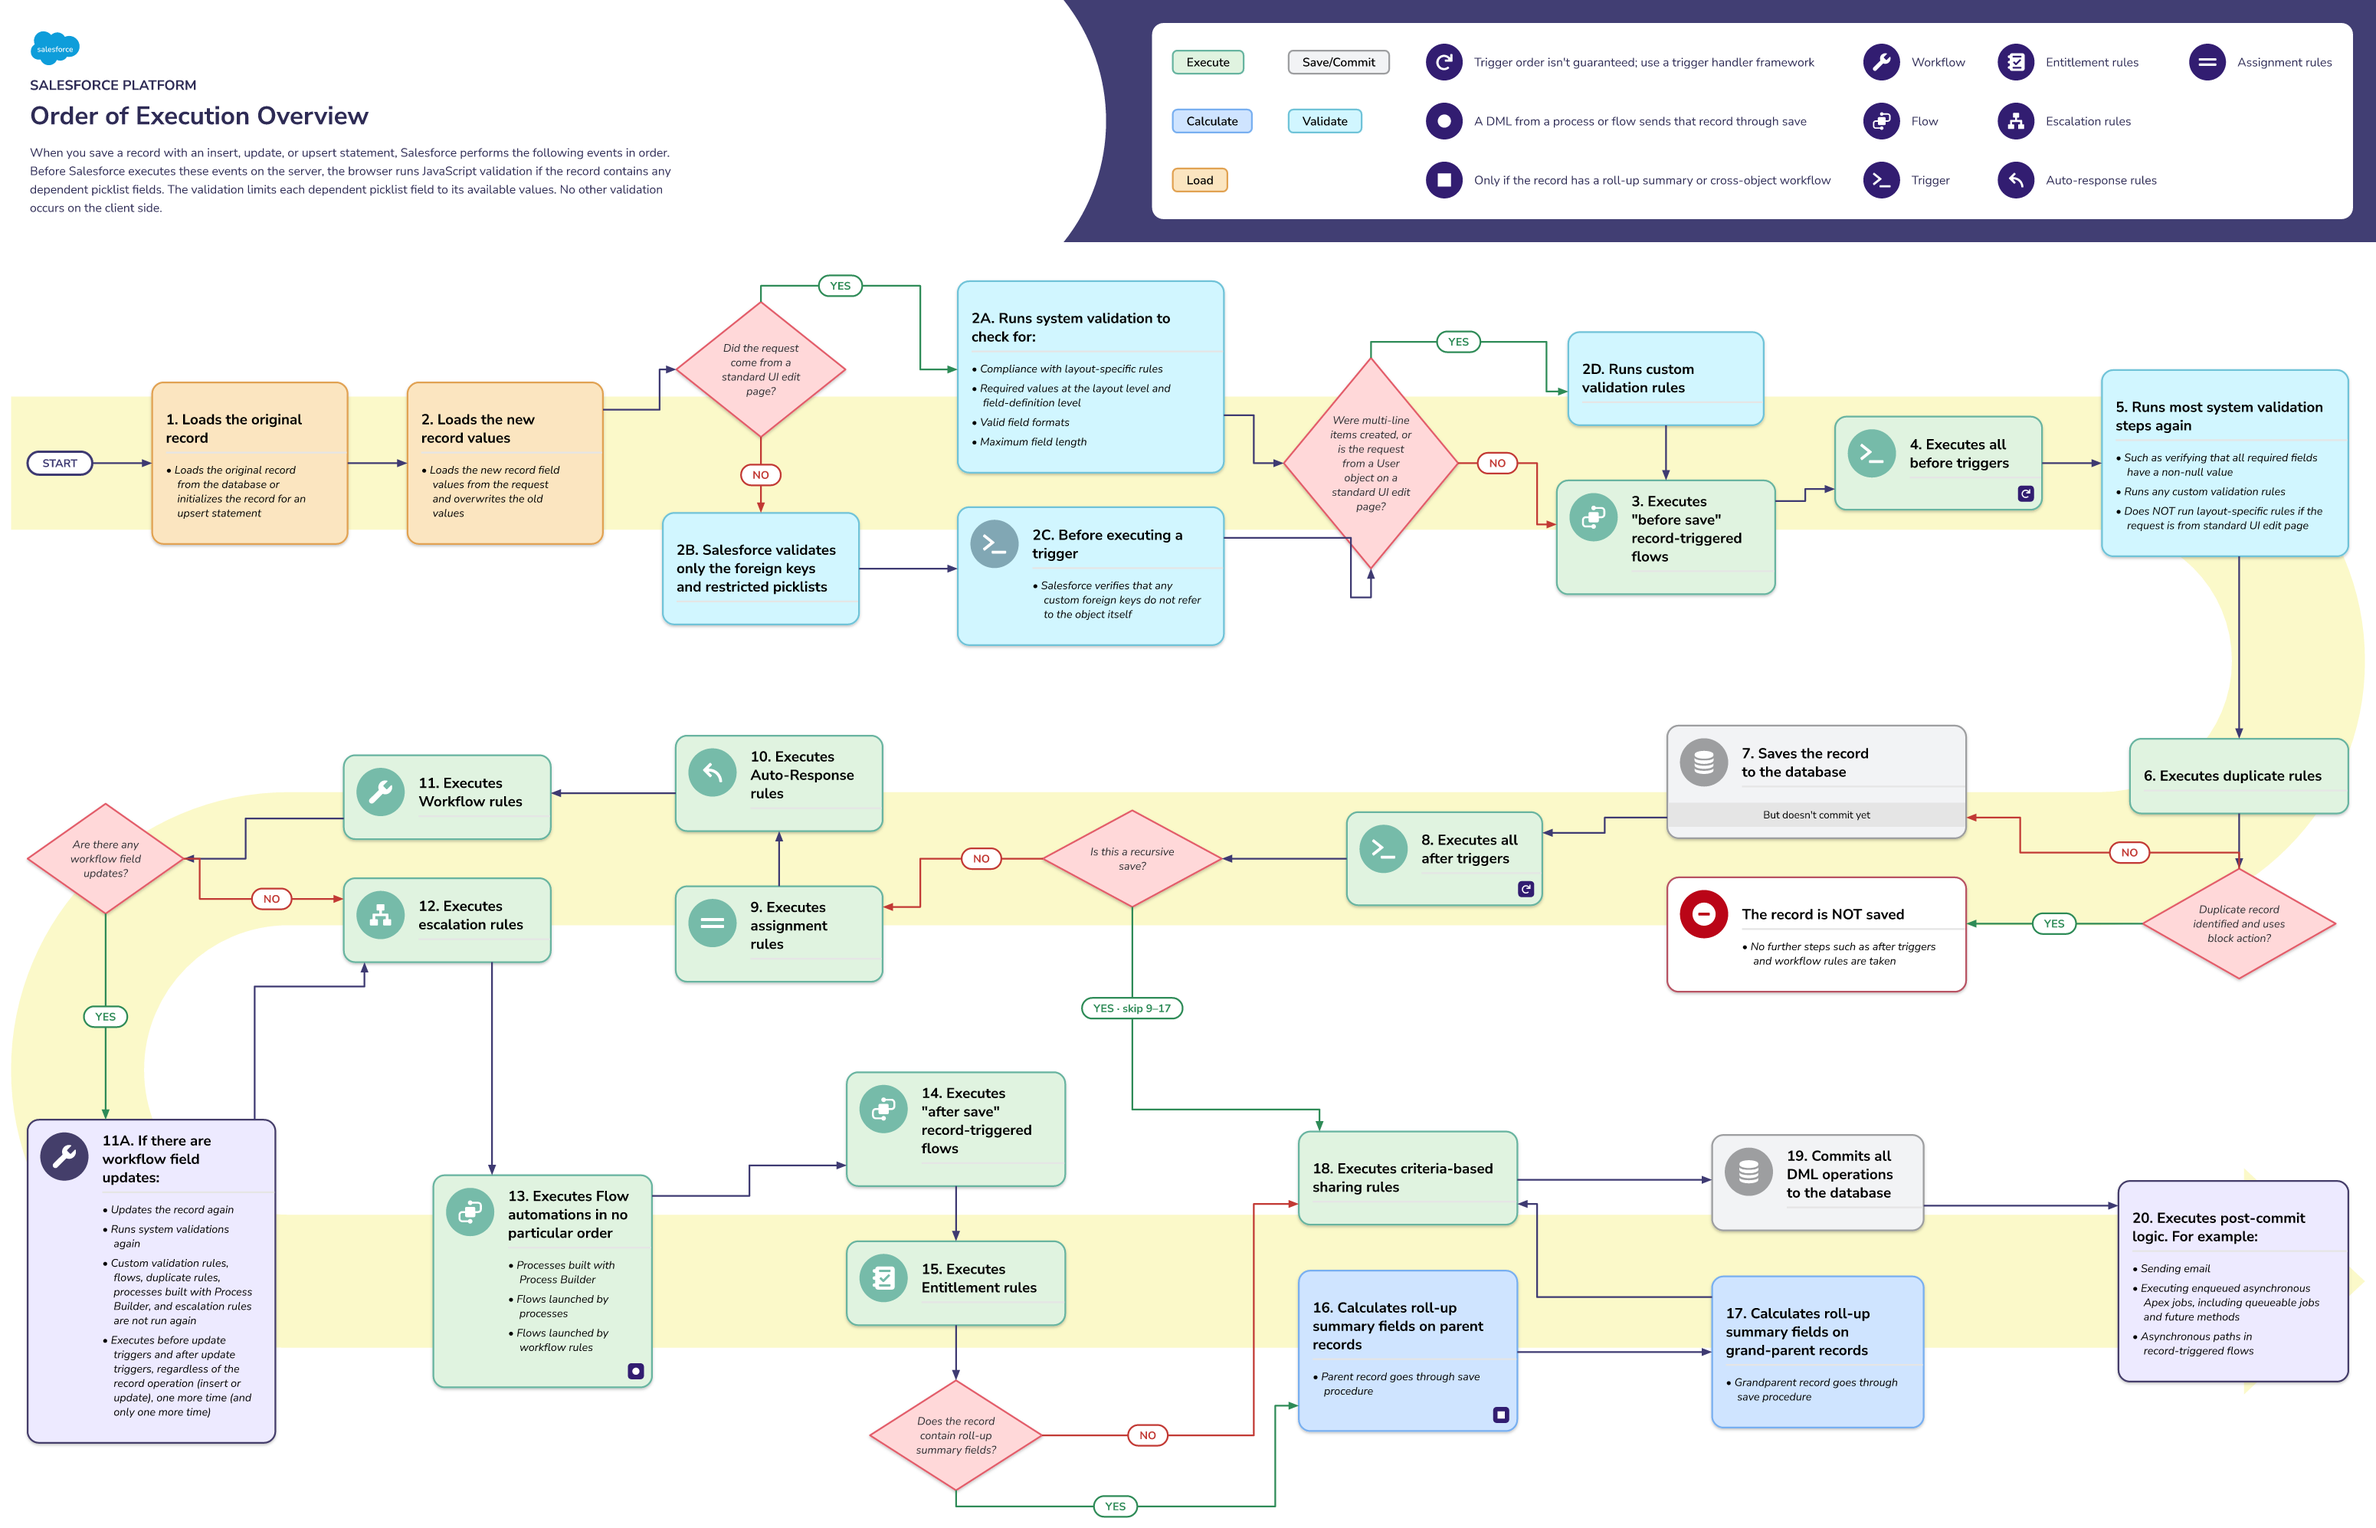
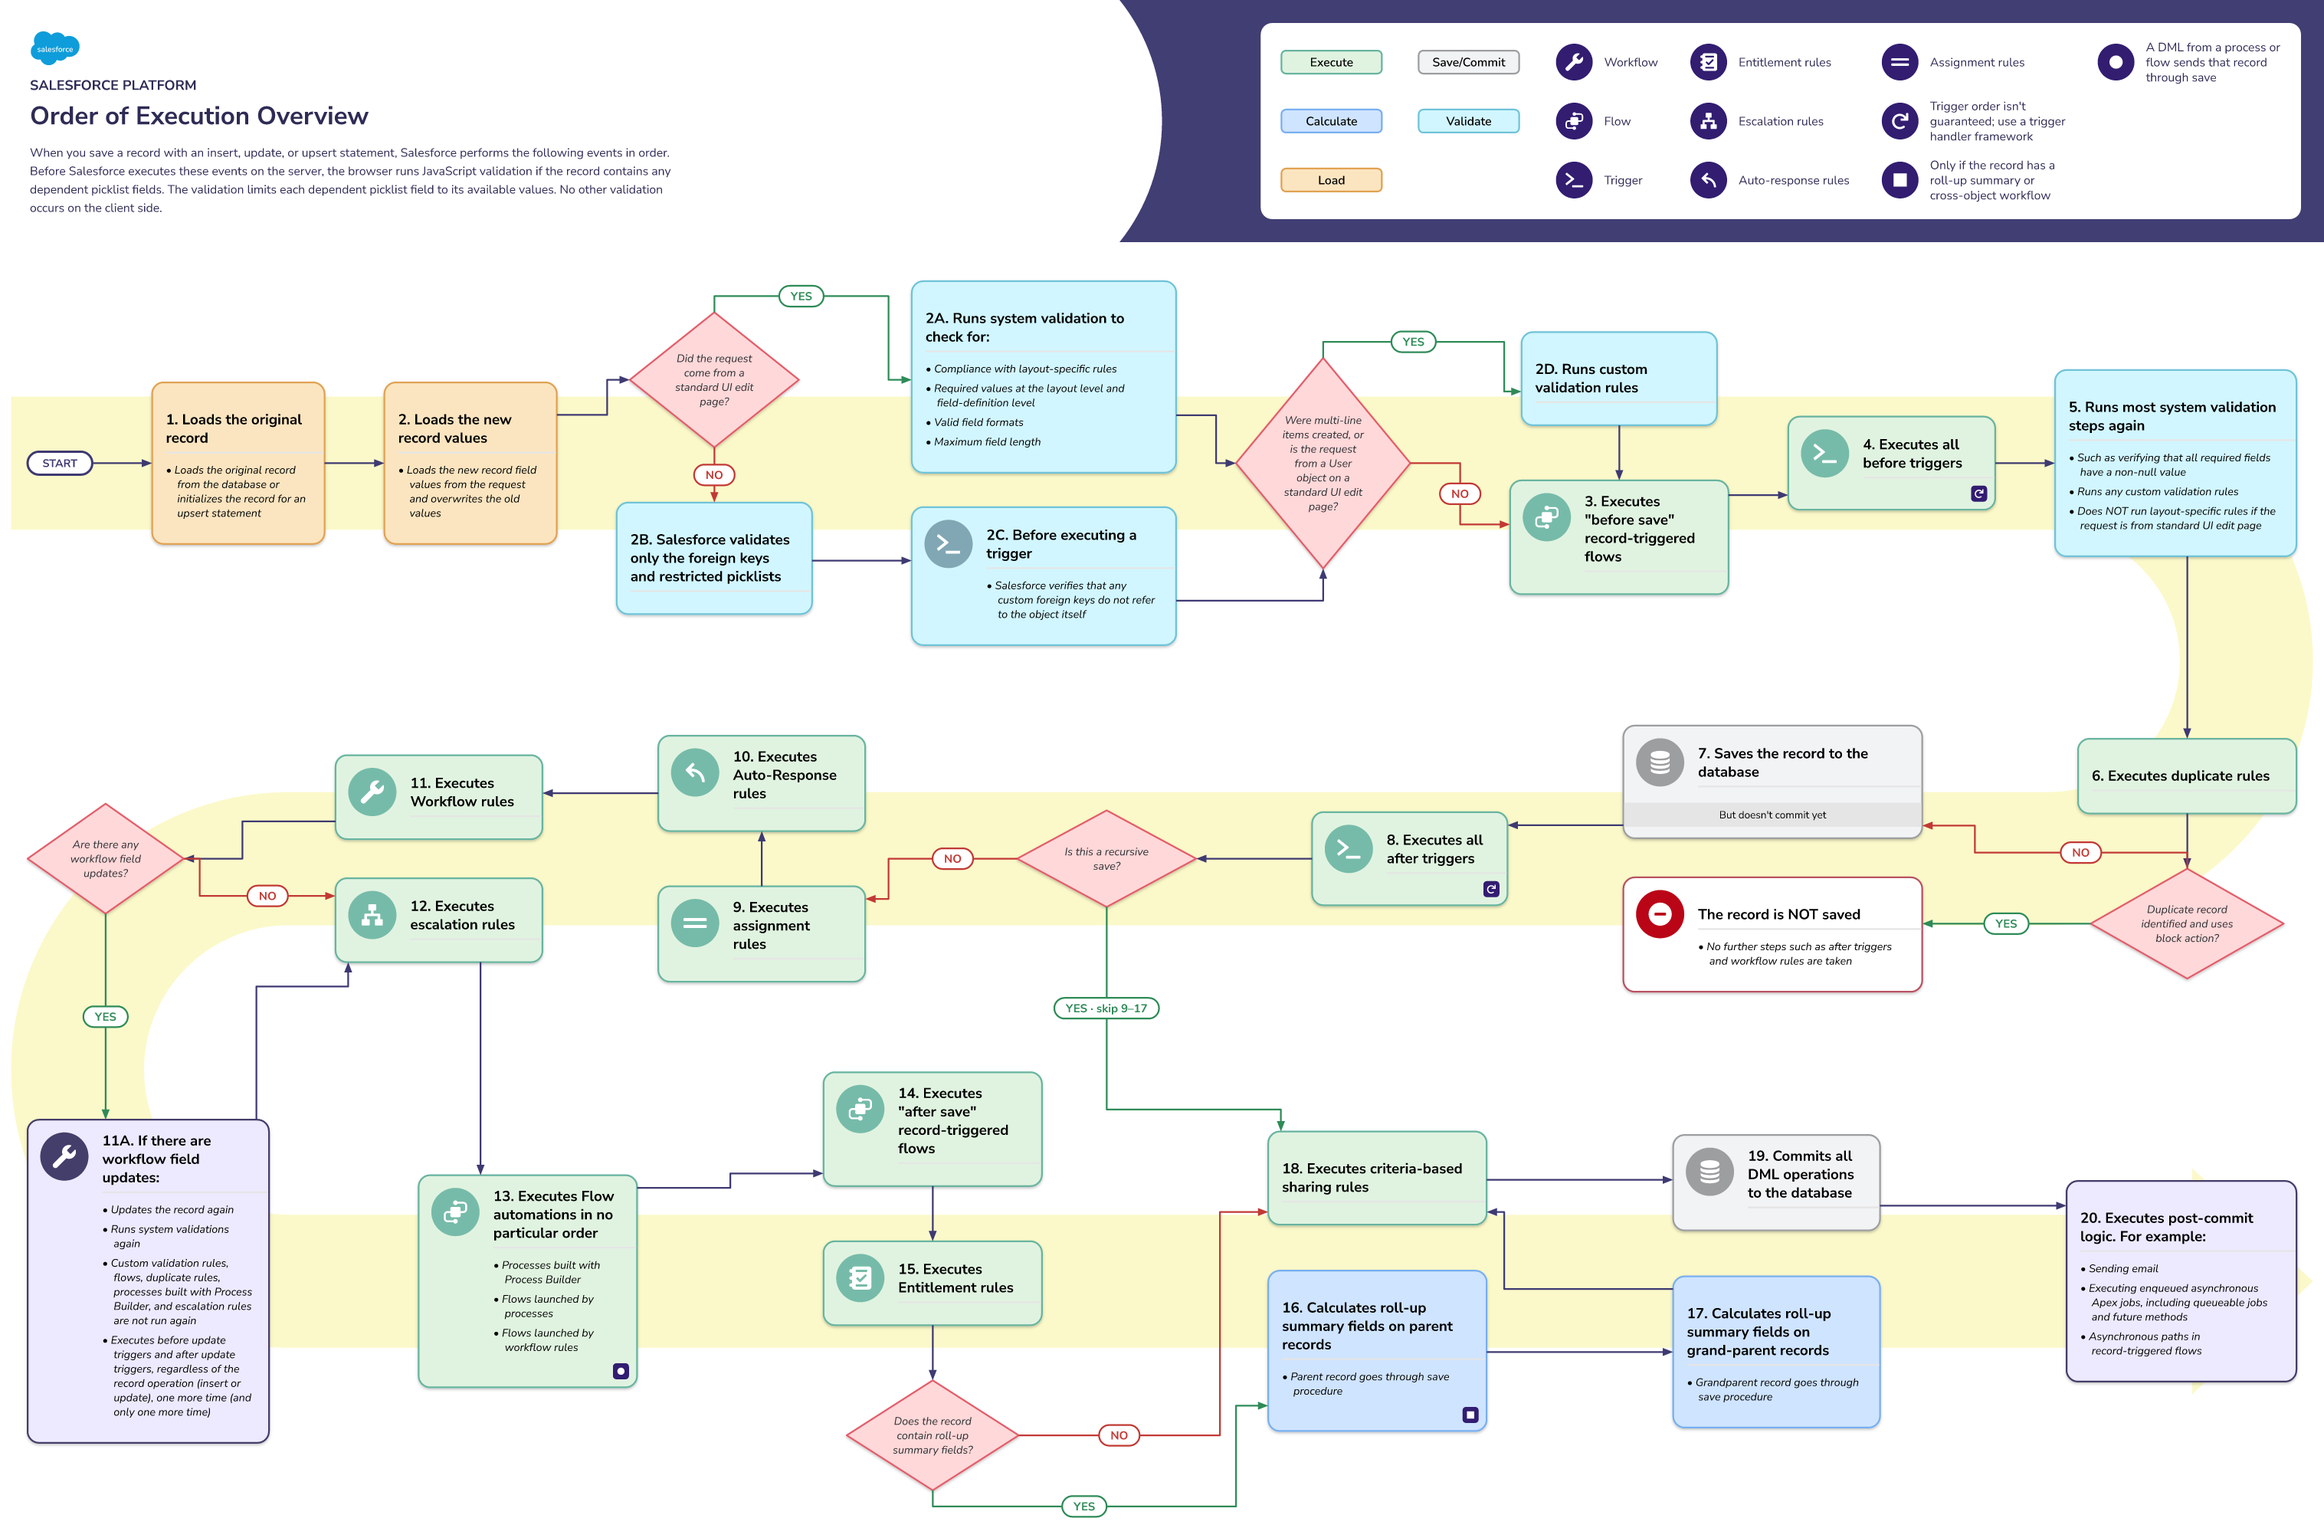
Router: perpendicular entries leave from beyond the target's edge for a clean L; connections no longer cut across their own end cards
Claude-Session: https://claude.ai/code/session_012tbLD3E1bNVEkpSjtvedpe

diff --git a/src/route.ts b/src/route.ts
@@ -196,6 +196,18 @@ function assignPorts(routes: Route[]): Map<Route, [number, number]> {
       // aim at the overlap with the other node if any, else at its centre
       const [a, b] = overlap(lo, hi, olo, ohi);
       e.pos = b > a ? (a + b) / 2 : Math.min(Math.max(oc, lo), hi);
+      // the other end enters across our axis (e.g. we leave sideways, it is entered from below):
+      // move just far enough along our side to clear its edge, so the line makes a clean L
+      const os = byRoute.get(e.route)!.find((x) => x !== e)!.side;
+      if (horizontalSide(os) !== horizontalSide(e.side)) {
+        const o = e.other;
+        const c = 2 * X.clearance; // room for the turn
+        const [blo, bhi] =
+          os === 'bottom' ? [o.y + o.h + c, Infinity] : os === 'top' ? [-Infinity, o.y - c]
+          : os === 'right' ? [o.x + o.w + c, Infinity] : [-Infinity, o.x - c];
+        const [p, q] = [Math.max(lo, blo), Math.min(hi, bhi)];
+        if (q - p >= 8) e.pos = Math.min(Math.max(e.pos, p), q);
+      }
     }
     list.sort((a, b) => a.pos! - b.pos!);
     for (let iter = 0; iter < 20; iter++) {
@@ -537,6 +549,8 @@ export function routeAll(layout: Layout): Route[] {
       inside(SA, o) || inside(SB, o) ? { x: o.x + c - 1, y: o.y + c - 1, w: o.w - 2 * c + 2, h: o.h - 2 * c + 2 } : o,
     );
     obstacles = obstacles.filter((o) => !inside(SA, o) && !inside(SB, o));
+    // a connection may not cut across its own end cards: their bare outlines block it too
+    for (const n of [r.from, r.to]) if (n.framed && n.children.length === 0) obstacles.push({ x: n.x, y: n.y, w: n.w, h: n.h });
     let mid = astar(SA, da, SB, { x: -db.x, y: -db.y }, obstacles, bounds, used);
     // straight shot if ports line up
     const straight = (A.x === B.x || A.y === B.y) && !obstacles.some((o) => segHitsBox(A, B, o));

diff --git a/test/route.test.ts b/test/route.test.ts
@@ -36,6 +36,21 @@ describe.each(exampleFiles)('routing %s', (file) => {
     }
   });
 
+  it('connections do not cut back across their own end cards', () => {
+    for (const r of routes) {
+      for (const n of [r.from, r.to]) {
+        if (!n.framed || n.children.length) continue;
+        for (let i = 1; i < r.points.length; i++) {
+          const a = r.points[i - 1];
+          const b = r.points[i];
+          const x0 = Math.min(a.x, b.x), x1 = Math.max(a.x, b.x), y0 = Math.min(a.y, b.y), y1 = Math.max(a.y, b.y);
+          const hit = x1 > n.x + 1 && x0 < n.x + n.w - 1 && y1 > n.y + 1 && y0 < n.y + n.h - 1;
+          expect(hit, `${r.conn.from}->${r.conn.to} crosses its end ${n.id}`).toBe(false);
+        }
+      }
+    }
+  });
+
   it('labels do not overlap each other', () => {
     const boxes = routes.map((r) => r.label).filter((b): b is NonNullable<typeof b> => !!b);
     for (let i = 0; i < boxes.length; i++)
@@ -44,4 +59,10 @@ describe.each(exampleFiles)('routing %s', (file) => {
         expect(a.x < b.x + b.w && b.x < a.x + a.w && a.y < b.y + b.h && b.y < a.y + a.h, `${a.text} vs ${b.text}`).toBe(false);
       }
   });
+});
+
+it('a sideways exit into a bottom entry makes a single clean L', () => {
+  const { routes } = compileExample('order-of-execution.yaml');
+  const r = routes.find((x) => x.conn.from === 's2c' && x.conn.to === 'd2')!;
+  expect(r.points).toHaveLength(3);
 });
